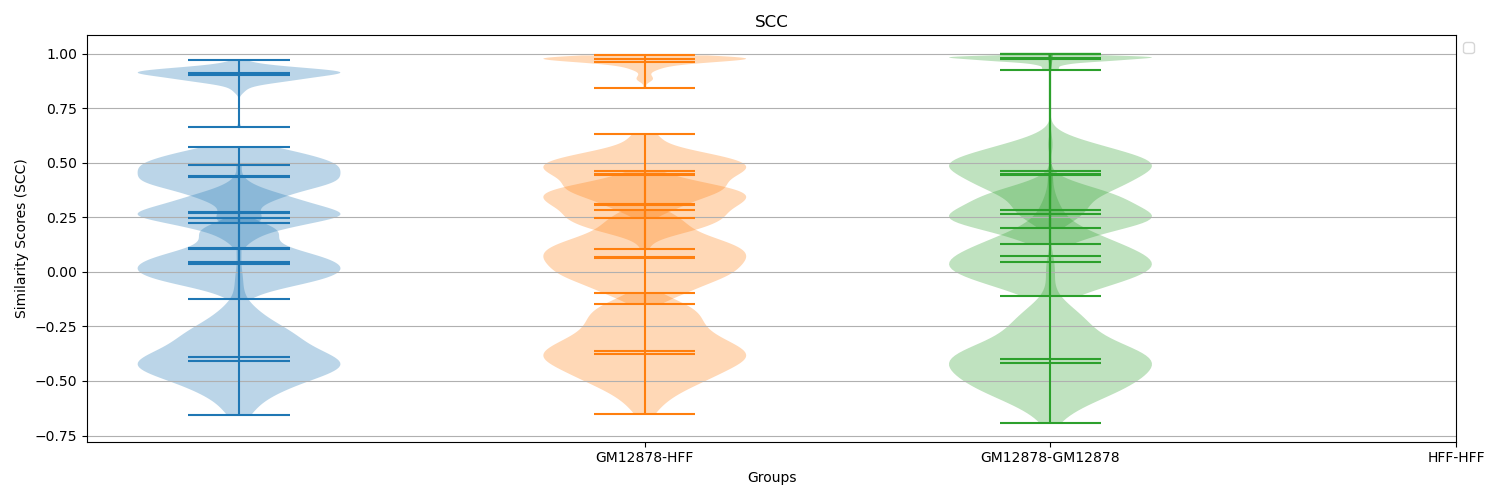
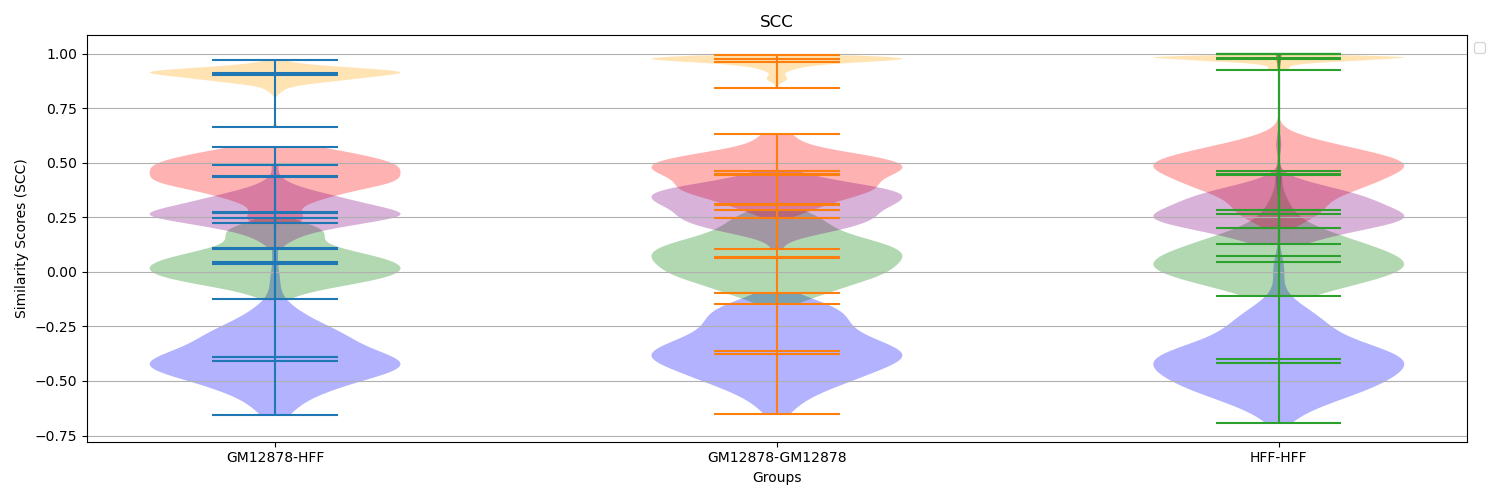
modified plot

diff --git a/experiments/2023-09-18/plot_SCC.py b/experiments/2023-09-18/plot_SCC.py
@@ -22,7 +22,7 @@ fig, axes = plt.subplots(1, 1, figsize=(15, 5))
 # Set the common x-axis ticks and labels
 x_ticks = [1, 2, 3]
 x_tick_labels = ["GM12878-HFF", "GM12878-GM12878", "HFF-HFF"]
-
+colors = ['blue', 'green', 'red', 'purple', 'orange']
 for j, p in enumerate(pairs_list):
     ax = axes  # Get the current axis
     all_violin_data = []
@@ -31,11 +31,10 @@ for j, p in enumerate(pairs_list):
         temp_df["HiCRep_SCC"] = pd.to_numeric(temp_df["HiCRep_SCC"])
         all_violin_data.append(temp_df["HiCRep_SCC"])
 
-    x_offset = x_ticks[j]
-    x = [pos + x_offset for pos in x_ticks]
-    print(len(all_violin_data),len(x),x)
-    pos = [j] * 5
+    pos = [j+1] * 5
     v = ax.violinplot(all_violin_data, positions=pos, showmeans=True, showmedians=True)                
+    for violin, color in zip(v['bodies'], colors):
+        violin.set_facecolor(color)
     ax.set_xticks(x_ticks)
     ax.set_xticklabels(x_tick_labels)
     ax.set_xlabel('Groups')
